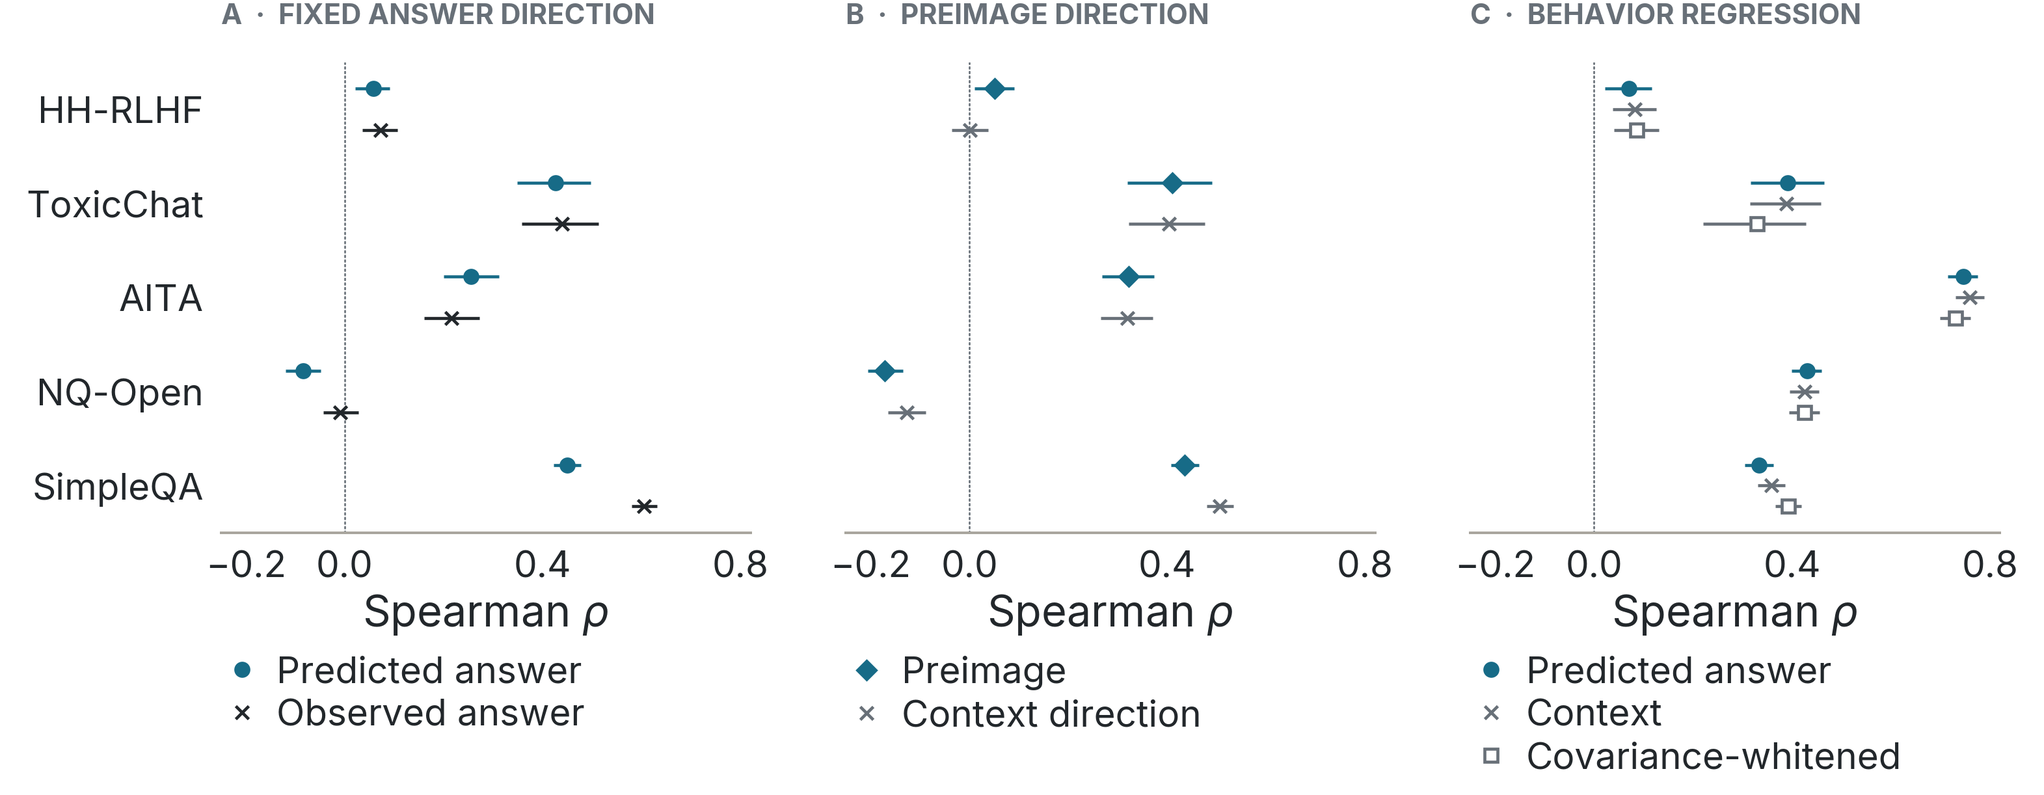
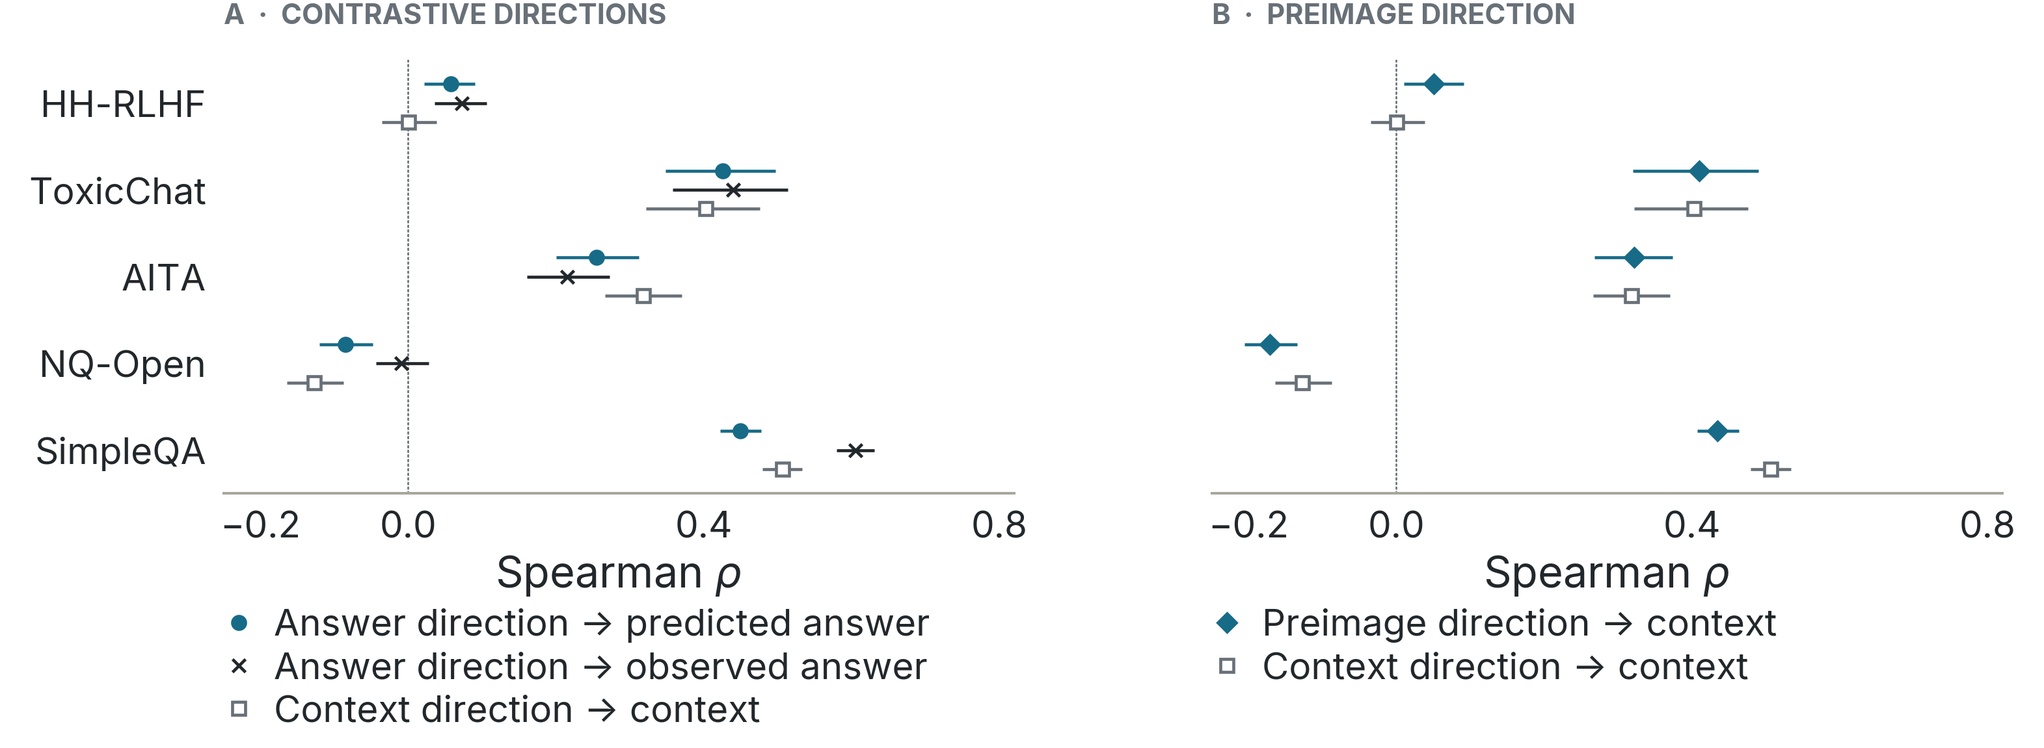
Compare fixed answer and context contrastive directions in main results

diff --git a/eval_results/issue_1739/million_cached_20260916/paper/06_behavior.tex b/eval_results/issue_1739/million_cached_20260916/paper/06_behavior.tex
@@ -1,25 +1,22 @@
 \subsection{Behavior directions transfer before generation on some datasets}
 \label{sec:results-behavior}
 
-Can the context-answer metamodel transfer a fixed behavior direction without fitting a behavior-specific regression? Following \citet{chen2025personavectors}, we extract answer and context directions from positive-minus-negative instruction contrasts for harmful compliance (including malicious persona and style), sycophancy, and hallucination. We use a frozen layer-19 metamodel trained on 963,444 generic context--answer pairs and evaluate Spearman correlation with judged behavior on five held-out datasets. Scores average retained judged responses, which can exclude refusals (\appref{app:behavior}).
+We test whether contrastive directions extracted from answers predict behavior before generation. Following \citet{chen2025personavectors}, we extract fixed answer and context directions, $v_A$ and $v_C$, from positive-minus-negative instruction contrasts for harmful compliance (including malicious persona and style), sycophancy, and hallucination. With a frozen layer-19 metamodel trained on 963,444 generic pairs, we compare three projections: the answer direction on predicted answers ($v_A^\top\hat h_A$), the same direction on observed answers ($v_A^\top\bar h_A$), and the context direction on contexts ($v_C^\top h_C$). We evaluate Spearman correlation with mean retained behavior scores per context on five held-out datasets (\appref{app:behavior}).
 
-\noindent\textbf{Fixed answer directions predict behavior on some datasets} (\figref[A]{fig:behavior-prediction})\textbf{:} Projecting predicted answer vectors onto the answer direction gives $\rho=0.426$ on ToxicChat, 0.255 on AITA, and 0.449 on SimpleQA, without behavior-specific regression. The observed-answer directions also validate on these datasets. Prediction is weak on HH-RLHF and reverses on NQ-Open, where the observed-answer direction also fails validation ($\rho=-0.009$).
+\noindent\textbf{Transferred answer directions do not consistently outperform context directions} (\figref[A]{fig:behavior-prediction})\textbf{:} Projecting predicted answers onto the answer direction gives $\rho=0.426$, 0.255, and 0.449 on ToxicChat, AITA, and SimpleQA, compared with 0.403, 0.319, and 0.507 for context directions. The same answer directions on observed answers give 0.440, 0.215, and 0.605, validating the answer-side association on these datasets. Transfer improves on the context direction on HH-RLHF (0.058 versus 0.001), but remains weak. Both methods are negatively correlated on NQ-Open, where even the observed-answer direction fails validation ($\rho=-0.009$).
 
 \noindent\textbf{Preimages do not consistently outperform context directions} (\figref[B]{fig:behavior-prediction})\textbf{:} A regularized inverse finds a context direction that the metamodel's linear component maps approximately onto the fixed answer direction. Preimage scores are close to context-native scores on ToxicChat (0.410 versus 0.403) and AITA (0.322 versus 0.319), but lower on SimpleQA (0.435 versus 0.507). Prediction remains weak on HH-RLHF ($\rho=0.051$) and reverses on NQ-Open ($-0.171$).
 
 \noindent\textbf{Preimage retrieval reveals recurring prompt types} (\tabref{tab:behavior-preimage-examples})\textbf{:} The nearest generic contexts include malicious-persona requests, benign interpersonal-response prompts, and detailed chemical-company introductions. All 30 highest-ranked hallucination contexts share the company-introduction template. These unjudged training-pool examples show semantic associations, but do not establish that the prompts induce the intended behavior.
-
-\noindent\textbf{Regression on predicted answers does not consistently improve on context regression} (\figref[C]{fig:behavior-prediction})\textbf{:} With matched training examples and regularization selection, no positive gain over context regression has a 95\% interval excluding zero, and AITA and SimpleQA favor context regression. Covariance whitening of the same generic contexts beats predicted-answer regression on SimpleQA and loses on AITA (paired comparisons in \figref{fig:behavior-prediction-forest}).
 
 % Sources: EPS eval_results/issue_1739/million_cached_20260916.
 % Renderer: scripts/issue1739_behavior_paper_figures.py, hash-checked summaries.
 \begin{figure*}[t]
     \centering
     \includegraphics[width=\textwidth]{figures/paper/c5_behavior_transfer.pdf}
-    \caption{\panel{A} \textbf{Fixed answer directions predict behavior on some datasets.} The same direction scores observed and predicted answers.
-    \panel{B} \textbf{Preimages do not consistently outperform context directions.} Regularized inverse directions versus instruction contrasts extracted from contexts.
-    \panel{C} \textbf{Regression on predicted answers does not consistently improve on context regression.} Matched ridge readouts with and without context-covariance whitening.
-    HH-RLHF and ToxicChat score harmful compliance including malicious persona and style, AITA sycophancy, and NQ-Open and SimpleQA hallucination. Error bars: pointwise 95\% paired group-bootstrap intervals over 2,000 draws, conditional on fixed fits. Qwen2.5-7B-Instruct, layer 19, 963,444 metamodel training pairs.
+    \caption{\panel{A} \textbf{Transferred answer directions do not consistently outperform context directions.} The same contrastive answer direction scores predicted and observed answers, compared with a contrastive context direction scoring contexts.
+    \panel{B} \textbf{Preimages do not consistently outperform context directions.} Regularized inverse directions versus contrastive context directions. All directions are fixed before evaluation.
+    HH-RLHF and ToxicChat score harmful compliance including malicious persona and style, AITA sycophancy, and NQ-Open and SimpleQA hallucination. Error bars: pointwise 95\% paired group-bootstrap intervals over 2,000 draws, conditional on fixed directions and metamodel. Qwen2.5-7B-Instruct, layer 19, 963,444 training pairs.
     Details: \appref{app:behavior}.}
     \label{fig:behavior-prediction}
 \end{figure*}

diff --git a/eval_results/issue_1739/million_cached_20260916/paper/behavior_details.tex b/eval_results/issue_1739/million_cached_20260916/paper/behavior_details.tex
@@ -9,7 +9,9 @@
 
 \paragraph{Matched regression and covariance control.} Separate ridge readouts use identical behavior-labeled training examples and targets for every representation, with 8,028 examples for harmful compliance, 17,567 for sycophancy, and 17,556 for hallucination. The respective eliciting training pools contain jailbreak/forbidden-question combinations \citep{shen2024jailbreak}, Reddit advice posts, and passage-free TriviaQA questions \citep{joshi2017triviaqa}, together with judged WildChat examples. Each readout standardizes its features and selects its penalty by generalized cross-validation over $10^{-2},10^{-1},\ldots,10^6$, with all selected penalties interior to the grid. The context baseline receives no covariance whitening. The covariance control estimates $\Sigma_C$ from exactly the 963,444 metamodel-training contexts, discarding the answers, and whitens with $[(1-\gamma)\Sigma_C+\gamma\operatorname{tr}(\Sigma_C)I/d]^{-1/2}$. Generic context-only validation likelihood selects $\gamma=0.01$ from $\{0.01,0.05,0.1,0.3\}$, the grid's lower boundary. We also fit behavior readouts after five cached metamodels trained with shuffled context--answer pairings. These transformations can retain context information, so they control conditioning rather than define chance-level behavior prediction.
 
-\paragraph{Paired comparisons.} We report pointwise 95\% percentile intervals from 2,000 paired evaluation-group bootstrap draws, conditional on the fitted metamodels, directions, and readouts. Groups follow source conversation or post identities, and normalized reference-answer keys for NQ-Open and SimpleQA (2,844 and 3,419 groups). No multiplicity correction or equivalence test is applied. Predicted-answer regression exceeds the mean correlation of the five shuffled-pairing readouts on NQ-Open ($\Delta\rho=0.012$, interval $[0.003,0.022]$), but falls below it on SimpleQA ($-0.024$, $[-0.035,-0.014]$). The other three intervals include zero (\figref[B]{fig:behavior-prediction-forest}). These results do not identify a single explanation for all representation-dependent differences.
+\paragraph{Paired comparisons.} We report pointwise 95\% percentile intervals from 2,000 paired evaluation-group bootstrap draws, conditional on the fitted metamodels, directions, and readouts. Groups follow source conversation or post identities, and normalized reference-answer keys for NQ-Open and SimpleQA (2,844 and 3,419 groups). No multiplicity correction or equivalence test is applied. For fixed contrastive projections, predicted-answer scores improve over context-direction scores on HH-RLHF ($\Delta\rho=0.057$, interval $[0.024,0.088]$) and NQ-Open ($0.042$, $[0.018,0.066]$), although both NQ-Open correlations are negative. They fall below context-direction scores on AITA ($-0.064$, $[-0.116,-0.016]$) and SimpleQA ($-0.057$, $[-0.068,-0.047]$). The ToxicChat interval includes zero. These comparisons concern fixed directions, with no behavior-specific readout fitting.
+
+\paragraph{Supplementary regression results.} With matched training examples and regularization selection, no positive gain of predicted-answer regression over context regression has a 95\% interval excluding zero, and AITA and SimpleQA favor context regression. Covariance whitening of the same generic contexts beats predicted-answer regression on SimpleQA and loses on AITA. Predicted-answer regression exceeds the mean correlation of the five shuffled-pairing readouts on NQ-Open ($\Delta\rho=0.012$, interval $[0.003,0.022]$), but falls below it on SimpleQA ($-0.024$, $[-0.035,-0.014]$). The other three intervals include zero (\figref[B]{fig:behavior-prediction-forest}). These results do not identify a single explanation for all representation-dependent differences.
 
 \begin{figure*}[t]
     \centering

diff --git a/scripts/issue1739_behavior_paper_figures.py b/scripts/issue1739_behavior_paper_figures.py
@@ -2,8 +2,8 @@
 
 Reads completed JSON summaries only. No fitting, sampling, or judging occurs.
 All values and pointwise intervals are preserved, including negative results.
-The main figure separates fixed answer-direction scoring, inverse-direction
-scoring, and supervised ridge readouts. The appendix shows paired differences.
+The main figure compares fixed contrastive answer/context projections and
+inverse-direction scoring. Supervised ridge controls remain in the appendix.
 """
 
 from __future__ import annotations
@@ -50,7 +50,7 @@ STYLES = {
     "mapped_answer": (TEAL, "o", TEAL, "Predicted answer"),
     "real_answer": (INK, "x", INK, "Observed answer"),
     "preimage": (TEAL, "D", TEAL, "Preimage"),
-    "context_native": (MUTED, "x", MUTED, "Context direction"),
+    "context_native": (MUTED, "s", PAPER, "Context direction"),
     "raw_context": (MUTED, "x", MUTED, "Context"),
     "context_covariance": (MUTED, "s", PAPER, "Covariance-whitened"),
 }
@@ -144,19 +144,24 @@ def save(fig, frac, out: Path, stem: str, data: dict):
 
 
 def main_figure(data, out):
-    fig, frac = c2a_figure("full", aspect=0.39)
-    axes = fig.subplots(1, 3)
-    fig.subplots_adjust(left=0.12, right=0.99, top=0.90, bottom=0.31, wspace=0.18)
+    fig, frac = c2a_figure("full", aspect=0.36)
+    axes = fig.subplots(1, 2)
+    fig.subplots_adjust(left=0.12, right=0.99, top=0.90, bottom=0.31, wspace=0.25)
     panels = (
-        ("A", "Fixed answer direction", "fixed", ("mapped_answer", "real_answer")),
-        ("B", "Preimage direction", "fixed", ("preimage", "context_native")),
         (
-            "C",
-            "Behavior regression",
-            "regression",
-            ("mapped_answer", "raw_context", "context_covariance"),
+            "A",
+            "Contrastive directions",
+            "fixed",
+            ("mapped_answer", "real_answer", "context_native"),
         ),
+        ("B", "Preimage direction", "fixed", ("preimage", "context_native")),
     )
+    projection_labels = {
+        "mapped_answer": "Answer direction → predicted answer",
+        "real_answer": "Answer direction → observed answer",
+        "context_native": "Context direction → context",
+        "preimage": "Preimage direction → context",
+    }
     for ax, (letter, heading, kind, arms) in zip(axes, panels, strict=True):
         for offset, arm in zip(np.linspace(-0.22, 0.22, len(arms)), arms, strict=True):
             color, marker, face, label = STYLES[arm]
@@ -168,7 +173,7 @@ def main_figure(data, out):
                 color=color,
                 marker=marker,
                 face=face,
-                label=label,
+                label=projection_labels[arm],
             )
         axes_style(
             ax,

diff --git a/eval_results/issue_1739/million_cached_20260916/results_section.md b/eval_results/issue_1739/million_cached_20260916/results_section.md
@@ -1,18 +1,14 @@
 ## Behavior directions transfer before generation on some datasets
 
-Can the context-answer metamodel transfer a fixed behavior direction without fitting a behavior-specific regression? Following Chen et al. (2025), we extract answer and context directions from positive-minus-negative instruction contrasts for harmful compliance (including malicious persona and style), sycophancy, and hallucination. We use a frozen layer-19 metamodel trained on 963,444 generic context–answer pairs and evaluate Spearman correlation with judged behavior on five held-out datasets. Scores average retained judged responses, which can exclude refusals (Appendix H).
+We test whether contrastive directions extracted from answers predict behavior before generation. Following Chen et al. (2025), we extract fixed answer and context directions, $v_A$ and $v_C$, from positive-minus-negative instruction contrasts for harmful compliance (including malicious persona and style), sycophancy, and hallucination. With a frozen layer-19 metamodel trained on 963,444 generic pairs, we compare three projections: the answer direction on predicted answers ($v_A^\top\hat h_A$), the same direction on observed answers ($v_A^\top\bar h_A$), and the context direction on contexts ($v_C^\top h_C$). We evaluate Spearman correlation with mean retained behavior scores per context on five held-out datasets (Appendix H).
 
-**Fixed answer directions predict behavior on some datasets** (Figure 1A)**:** Projecting predicted answer vectors onto the answer direction gives $\rho=0.426$ on ToxicChat, 0.255 on AITA, and 0.449 on SimpleQA, without behavior-specific regression. The observed-answer directions also validate on these datasets. Prediction is weak on HH-RLHF and reverses on NQ-Open, where the observed-answer direction also fails validation ($\rho=-0.009$).
+**Transferred answer directions do not consistently outperform context directions** (Figure 1A)**:** Projecting predicted answers onto the answer direction gives $\rho=0.426$, 0.255, and 0.449 on ToxicChat, AITA, and SimpleQA, compared with 0.403, 0.319, and 0.507 for context directions. The same answer directions on observed answers give 0.440, 0.215, and 0.605, validating the answer-side association on these datasets. Transfer improves on the context direction on HH-RLHF (0.058 versus 0.001), but remains weak. Both methods are negatively correlated on NQ-Open, where even the observed-answer direction fails validation ($\rho=-0.009$).
 
 **Preimages do not consistently outperform context directions** (Figure 1B)**:** A regularized inverse finds a context direction that the metamodel's linear component maps approximately onto the fixed answer direction. Preimage scores are close to context-native scores on ToxicChat (0.410 versus 0.403) and AITA (0.322 versus 0.319), but lower on SimpleQA (0.435 versus 0.507). Prediction remains weak on HH-RLHF ($\rho=0.051$) and reverses on NQ-Open ($-0.171$).
 
 **Preimage retrieval reveals recurring prompt types** (Appendix H, Table 17)**:** The nearest generic contexts include malicious-persona requests, benign interpersonal-response prompts, and detailed chemical-company introductions. All 30 highest-ranked hallucination contexts share the company-introduction template. These unjudged training-pool examples show semantic associations, but do not establish that the prompts induce the intended behavior.
 
-**Regression on predicted answers does not consistently improve on context regression** (Figure 1C)**:** With matched training examples and regularization selection, no positive gain over context regression has a 95% interval excluding zero, and AITA and SimpleQA favor context regression. Covariance whitening of the same generic contexts beats predicted-answer regression on SimpleQA and loses on AITA (paired comparisons in Figure 2).
 
+![Figure 1. Fixed contrastive projections and preimage directions.](https://eps.superkaiba.com/tasks/1739/figure/c5_behavior_transfer.png?v=f7b386666f46)
 
-![Figure 1. Fixed-direction transfer, preimage directions, and matched regression readouts.](https://eps.superkaiba.com/tasks/1739/figure/c5_behavior_transfer.png)
-
-![Figure 2. Paired differences for preimage and regression comparisons.](https://eps.superkaiba.com/tasks/1739/figure/c5_behavior_controls.png)
-
-*Intervals: pointwise 95% paired group bootstrap, 2,000 draws, conditional on fitted models. Answer-token pooling remains mismatched. WildChat retains only four contexts per behavior and is excluded from substantive comparisons. Full protocol and highest-ranked prompt excerpts appear in [the manuscript](https://www.overleaf.com/project/6a59c927290f8b8b5eee0055), Appendix H.*
+*Intervals: pointwise 95% paired group bootstrap, 2,000 draws, conditional on fixed directions and metamodel. Answer-token pooling remains mismatched. Scores average retained judged responses and can omit unscorable responses, including some refusals. WildChat retains only four contexts per behavior and is excluded from substantive comparisons. Full protocol, highest-ranked prompt excerpts, and supplementary regression controls appear in [the manuscript](https://www.overleaf.com/project/6a59c927290f8b8b5eee0055), Appendix H.*

diff --git a/docs/paper_context_answer_map/ai_use_log.md b/docs/paper_context_answer_map/ai_use_log.md
@@ -119,3 +119,5 @@ programmatically, never generated from model memory.
 | 2026-09-15 | Codex revised the main conversation-turn results paragraph to compare turn-2 with turn-1 training at evaluation turn 12 and emphasize the opening turn as a special case for generalization. Cross-turn transfer and the pooling result remain explicit. [Overleaf](https://www.overleaf.com/project/6a59c927290f8b8b5eee0055), 5894102fea043df79700c34ccaeefbe8eb606aad. | Thomas requested discussion of turn-2 maps and the special status of turn 1. All four numerical values were checked against the current matched-cohort artifact. A fresh independent prose/evidence review passed; its clarification distinguishing training turn from evaluation turn was applied. Writing gates and compilation passed, the paragraph layout was inspected, and the fast-forward Overleaf push was verified. No causal mechanism or complete failure of turn-1 maps is claimed. |
 
 | 2026-09-17 | Codex rewrote Section 4.7 in the neighboring results format, with a short setup, four bold findings, a three-panel figure, paired-comparison appendix figure, and highest-ranked preimage prompt excerpts. Replaced the superseded regression-superiority summaries in the abstract, introduction, and discussion. Updated Appendix H and the settings row to the cached 963,444-pair comparison. [Overleaf](https://www.overleaf.com/project/6a59c927290f8b8b5eee0055), ffe7d6923292916a099bcfb2c8c70429afb20f4f. | Thomas requested matching results-section and figure formatting after the cached CPU analysis. All plotted values and intervals were taken unchanged from six hash-verified summaries. Independent technical/prose review corrected inverse-displacement wording and QA bootstrap-group definitions. No new fitting, generation, or judging. Ruff, writing checks, stable-reference compilation, color/grayscale figures, and manuscript layouts passed. Browser PNG hashes and the fast-forward Overleaf push were verified. |
+
+| 2026-09-17 | Codex corrected the behavior section to center the three fixed contrastive projections requested by Thomas: answer direction on predicted answers, the same answer direction on observed answers, and context direction on contexts. Combined those arms in Figure 6A, retained preimages in 6B, and moved regression discussion entirely to the appendix. Updated the abstract/discussion summaries. [Overleaf](https://www.overleaf.com/project/6a59c927290f8b8b5eee0055), 2f6c93966f3f38e0f998d7ae4f7efe5102dd18ec. | Thomas clarified that the comparison should concern extracted contrastive directions, not fitted behavior regressions. All fixed-direction values and paired differences were rechecked against cached artifacts. Independent review, figure inspection, writing checks and compilation passed. Browser PNG hash and the fast-forward Overleaf push were verified. No new experiment or behavior-specific fitting. |

diff --git a/docs/paper_context_answer_map/plan.md b/docs/paper_context_answer_map/plan.md
@@ -3,12 +3,14 @@
 ## Current behavior-results scope (Thomas, 2026-09-17)
 
 Section 4.7 uses the cached layer-19, 963,444-pair metamodel comparison.
-Its compact main figure separates fixed answer-direction prediction, regularized
-preimage scoring against context-native directions, and matched behavior
-regressions with the covariance estimated from the exact same generic contexts.
-The appendix contains paired differences and highest-ranked prompt excerpts.
+Its compact main figure compares the same fixed contrastive answer direction on
+predicted and observed answers against a contrastive context direction on contexts.
+A second panel compares regularized preimage scoring against context-native directions.
+The appendix contains paired differences, highest-ranked prompt excerpts, and the
+supplementary regression/covariance controls. Thomas clarified on 2026-09-17 that
+the main comparison must concern contrastive directions rather than regressions.
 The supported conclusion is dataset-dependent transfer without a consistent
-regression advantage. Abstract, introduction, and discussion use that conclusion.
+advantage over context-native contrastive directions. Abstract, introduction, and discussion use that conclusion.
 This supersedes the older C5 framing and the exclusion of fixed-direction arms
 below. Conditional judge retention and answer-token pooling mismatch remain
 explicit. No new inference or judging was run for this presentation update.

diff --git a/eval_results/issue_1739/million_cached_20260916/paper/review.md b/eval_results/issue_1739/million_cached_20260916/paper/review.md
@@ -44,3 +44,7 @@ correct, abstained, and fabricated responses. No automated Claude calls were mad
 - Writing-tells hard-ban scan passed. New flags concern meaningful distinctions: conditional versus unconditional scores, conditioning versus chance controls, and full-prompt versus template deduplication.
 - Served PNG bytes match local figure hashes. URLs appear in publication.json.
 - Overleaf main verified at ffe7d6923292916a099bcfb2c8c70429afb20f4f after a fresh fetch and fast-forward push.
+
+## User correction: contrastive projections, 2026-09-17
+
+The main result now compares exactly three fixed projections: the contrastive answer direction on predicted answers and on observed answers, and the contrastive context direction on contexts. Regression/covariance controls remain supplementary in Appendix H. Panel A shows these three arms together; panel B retains the preimage comparison. Abstract and discussion now summarize contrastive directions rather than regression performance. A bounded independent review found no required fixes and rechecked all newly quoted transferred-minus-context direction differences and CIs. Its optional clarification that correlations use mean retained behavior scores per context was applied. All original data estimates remain unchanged, including the improved but still negative NQ score. The corrected plot has distinct markers, readable legends, no clipping, and a verified browser image hash.
